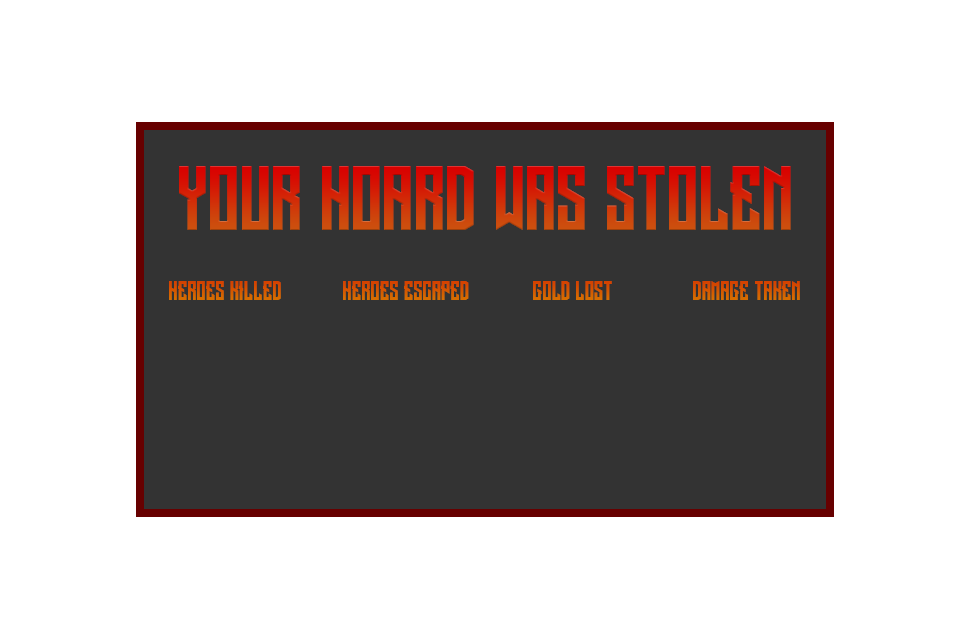
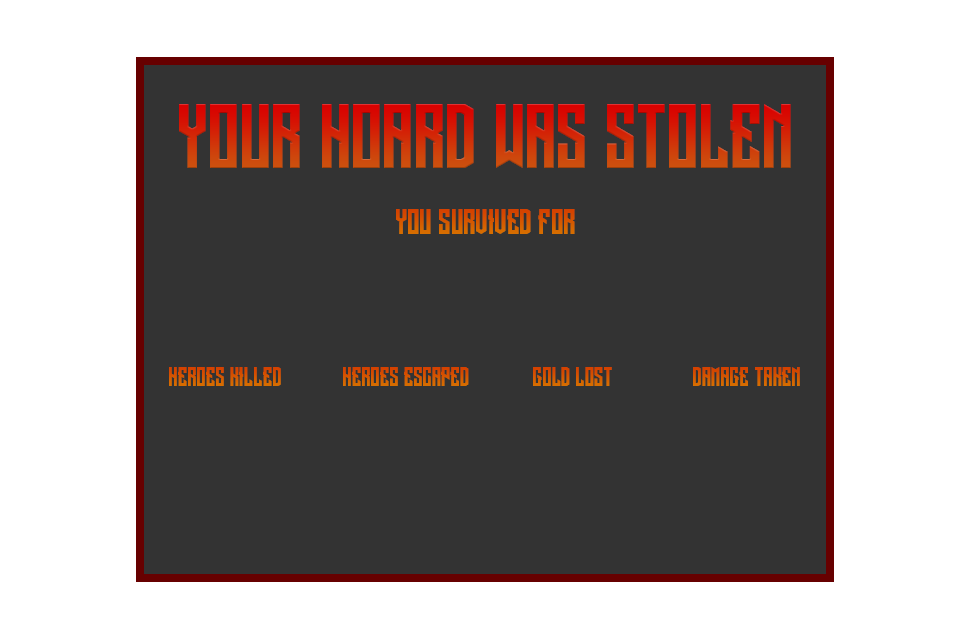
Add survival time

diff --git a/game/game.js b/game/game.js
@@ -109,6 +109,7 @@ var Map = (function (_super) {
         _super.call(this, engine);
         this._damageEffectTimeLeft = 0;
         this._takingDamage = false;
+        this._survivalTimer = 0;
         this._cameraVel = new ex.Vector(0, 0);
         // exported from Tiled JSON
         this._walls = [179, 179, 179, 179, 179, 179, 179, 179, 179, 186, 181, 181, 181, 181, 181, 181, 181, 181, 181, 181, 181, 181, 181, 181, 181, 181, 181, 181, 181, 181, 187, 179, 179, 179, 179, 179, 179, 179, 179, 179, 179, 179, 179, 179, 179, 179, 179, 179, 186, 189, 0, 0, 0, 0, 0, 0, 0, 0, 0, 0, 0, 0, 0, 0, 0, 0, 0, 0, 0, 0, 188, 187, 179, 179, 179, 179, 179, 179, 179, 179, 179, 179, 179, 179, 179, 179, 179, 186, 189, 0, 0, 0, 0, 0, 0, 0, 0, 0, 0, 0, 0, 0, 0, 0, 0, 0, 0, 0, 0, 0, 0, 188, 187, 179, 179, 179, 179, 292, 293, 293, 179, 179, 179, 179, 179, 179, 186, 189, 0, 0, 0, 0, 0, 0, 0, 0, 0, 0, 0, 0, 0, 0, 0, 0, 0, 0, 0, 0, 0, 0, 0, 0, 188, 187, 179, 179, 179, 179, 179, 179, 179, 179, 509, 179, 179, 186, 189, 0, 0, 0, 0, 0, 0, 0, 0, 0, 0, 0, 0, 0, 0, 0, 0, 0, 0, 0, 0, 0, 0, 0, 0, 0, 0, 188, 187, 179, 179, 179, 179, 179, 179, 179, 179, 179, 186, 189, 0, 0, 0, 0, 0, 0, 0, 0, 0, 0, 0, 0, 0, 0, 0, 0, 0, 0, 0, 0, 0, 0, 0, 0, 0, 0, 0, 0, 188, 187, 179, 179, 179, 179, 179, 179, 509, 186, 189, 0, 0, 0, 0, 0, 0, 0, 0, 0, 0, 0, 0, 0, 0, 0, 0, 0, 0, 0, 0, 0, 0, 0, 0, 0, 0, 0, 0, 0, 0, 188, 187, 291, 179, 179, 179, 179, 186, 189, 0, 0, 0, 0, 0, 0, 0, 0, 0, 0, 0, 0, 0, 0, 0, 0, 0, 0, 0, 0, 0, 0, 0, 0, 0, 0, 0, 0, 0, 0, 0, 0, 188, 187, 179, 179, 179, 186, 189, 0, 0, 0, 0, 0, 0, 0, 0, 0, 0, 0, 0, 0, 0, 0, 0, 0, 0, 0, 0, 0, 0, 0, 0, 0, 0, 0, 0, 0, 0, 0, 0, 0, 0, 188, 187, 291, 186, 189, 0, 0, 0, 0, 0, 0, 0, 0, 0, 0, 0, 0, 0, 0, 0, 0, 0, 0, 0, 0, 0, 0, 0, 0, 0, 0, 0, 0, 0, 0, 0, 0, 0, 0, 0, 0, 188, 187, 184, 0, 0, 0, 0, 0, 0, 0, 0, 0, 0, 0, 0, 0, 0, 0, 0, 0, 0, 0, 0, 0, 0, 0, 0, 0, 0, 0, 0, 0, 0, 0, 0, 0, 0, 0, 0, 0, 0, 184, 184, 0, 0, 0, 0, 0, 0, 0, 0, 0, 0, 0, 0, 0, 0, 0, 0, 0, 0, 0, 0, 0, 0, 0, 0, 0, 0, 0, 0, 0, 0, 0, 0, 0, 0, 0, 0, 0, 0, 184, 184, 0, 0, 0, 0, 0, 0, 0, 0, 0, 0, 0, 0, 0, 0, 0, 0, 0, 0, 0, 0, 0, 0, 0, 0, 0, 0, 0, 0, 0, 0, 0, 0, 0, 0, 0, 0, 0, 0, 184, 184, 0, 0, 0, 0, 0, 0, 0, 0, 0, 0, 0, 0, 0, 0, 0, 0, 0, 0, 0, 0, 0, 0, 0, 0, 0, 0, 0, 0, 0, 0, 0, 0, 0, 0, 0, 0, 0, 0, 184, 184, 0, 0, 0, 0, 0, 0, 0, 0, 0, 0, 0, 0, 0, 0, 0, 0, 0, 0, 0, 0, 0, 0, 0, 0, 0, 0, 0, 0, 0, 0, 0, 0, 0, 0, 0, 0, 0, 0, 184, 184, 0, 0, 0, 0, 0, 0, 0, 0, 0, 0, 0, 0, 0, 0, 0, 0, 0, 0, 0, 0, 0, 0, 0, 0, 0, 0, 0, 0, 0, 0, 0, 0, 0, 0, 0, 0, 0, 0, 184, 184, 0, 0, 0, 0, 0, 0, 0, 0, 0, 0, 0, 0, 0, 0, 0, 0, 0, 0, 0, 0, 0, 0, 0, 0, 0, 0, 0, 0, 0, 0, 0, 0, 0, 0, 0, 0, 0, 0, 184, 185, 0, 0, 0, 0, 0, 0, 0, 0, 0, 0, 0, 0, 0, 0, 0, 0, 0, 0, 0, 0, 0, 0, 0, 0, 0, 0, 0, 0, 0, 0, 0, 0, 0, 0, 0, 0, 0, 0, 185, 739, 0, 0, 0, 0, 0, 0, 0, 0, 0, 0, 0, 0, 0, 0, 0, 0, 0, 0, 0, 0, 0, 0, 0, 0, 0, 0, 0, 0, 0, 0, 0, 0, 0, 0, 0, 0, 0, 0, 1131, 0, 0, 0, 0, 0, 0, 0, 0, 0, 0, 0, 0, 0, 0, 0, 0, 0, 0, 0, 0, 0, 0, 0, 0, 0, 0, 0, 0, 0, 0, 0, 0, 0, 0, 0, 0, 0, 0, 0, 0, 739, 0, 0, 0, 0, 0, 0, 0, 0, 0, 0, 0, 0, 0, 0, 0, 0, 0, 0, 0, 0, 0, 0, 0, 0, 0, 0, 0, 0, 0, 0, 0, 0, 0, 0, 0, 0, 0, 0, 1131, 183, 0, 0, 0, 0, 0, 0, 0, 0, 0, 0, 0, 0, 0, 0, 0, 0, 0, 0, 0, 0, 0, 0, 0, 0, 0, 0, 0, 0, 0, 0, 0, 0, 0, 0, 0, 0, 0, 0, 183, 184, 0, 0, 0, 0, 0, 0, 0, 0, 0, 0, 0, 0, 0, 0, 0, 0, 0, 0, 0, 0, 0, 0, 0, 0, 0, 0, 0, 0, 0, 0, 0, 0, 0, 0, 0, 0, 0, 0, 184, 184, 0, 0, 0, 0, 0, 0, 0, 0, 0, 0, 0, 0, 0, 0, 0, 0, 0, 0, 0, 0, 0, 0, 0, 0, 0, 0, 0, 0, 0, 0, 0, 0, 0, 0, 0, 0, 0, 0, 184, 184, 0, 0, 0, 0, 0, 0, 0, 0, 0, 0, 0, 0, 0, 0, 0, 0, 0, 0, 0, 0, 0, 0, 0, 0, 0, 0, 0, 0, 0, 0, 0, 0, 0, 0, 0, 0, 0, 0, 184, 184, 0, 0, 0, 0, 0, 0, 0, 0, 0, 0, 0, 0, 0, 0, 0, 0, 0, 0, 0, 0, 0, 0, 0, 0, 0, 0, 0, 0, 0, 0, 0, 0, 0, 0, 0, 0, 0, 0, 184, 184, 0, 0, 0, 0, 0, 0, 0, 0, 0, 0, 0, 0, 0, 0, 0, 0, 0, 0, 0, 0, 0, 0, 0, 0, 0, 0, 0, 0, 0, 0, 0, 0, 0, 0, 0, 0, 0, 0, 184, 184, 0, 0, 0, 0, 0, 0, 0, 0, 0, 0, 0, 0, 0, 0, 0, 0, 0, 0, 0, 0, 0, 0, 0, 0, 0, 0, 0, 0, 0, 0, 0, 0, 0, 0, 0, 0, 0, 0, 184, 184, 0, 0, 0, 0, 0, 0, 0, 0, 0, 0, 0, 0, 0, 0, 0, 0, 0, 0, 0, 0, 0, 0, 0, 0, 0, 0, 0, 0, 0, 0, 0, 0, 0, 0, 0, 0, 0, 0, 184, 184, 0, 0, 0, 0, 0, 0, 0, 0, 0, 0, 0, 0, 0, 0, 0, 0, 0, 0, 0, 0, 0, 0, 0, 0, 0, 0, 0, 0, 0, 0, 0, 0, 0, 0, 0, 0, 0, 0, 184, 188, 187, 0, 0, 0, 0, 0, 0, 0, 0, 0, 0, 0, 0, 0, 0, 0, 0, 0, 0, 0, 0, 0, 0, 0, 0, 0, 0, 0, 0, 0, 0, 0, 0, 0, 0, 0, 0, 186, 189, 179, 188, 187, 0, 0, 0, 0, 0, 0, 0, 0, 0, 0, 0, 0, 0, 0, 0, 0, 0, 0, 0, 0, 0, 0, 0, 0, 0, 0, 0, 0, 0, 0, 0, 0, 0, 0, 186, 189, 179, 179, 179, 188, 187, 0, 0, 0, 0, 0, 0, 0, 0, 0, 0, 0, 0, 0, 0, 0, 0, 0, 0, 0, 0, 0, 0, 0, 0, 0, 0, 0, 0, 0, 0, 0, 0, 186, 189, 179, 291, 179, 179, 179, 188, 187, 0, 0, 0, 0, 0, 0, 0, 0, 0, 0, 0, 0, 0, 0, 0, 0, 0, 0, 0, 0, 0, 0, 0, 0, 0, 0, 0, 0, 0, 0, 186, 189, 179, 179, 179, 179, 179, 179, 179, 188, 187, 0, 0, 0, 0, 0, 0, 0, 0, 0, 0, 0, 0, 0, 0, 0, 0, 0, 0, 0, 0, 0, 0, 0, 0, 0, 0, 0, 0, 186, 189, 179, 179, 179, 179, 179, 509, 179, 179, 179, 188, 187, 0, 0, 0, 0, 0, 0, 0, 0, 0, 0, 0, 0, 0, 0, 0, 0, 0, 0, 0, 0, 0, 0, 0, 0, 0, 0, 186, 189, 179, 291, 179, 179, 179, 179, 179, 179, 179, 179, 179, 188, 187, 0, 0, 0, 0, 0, 0, 0, 0, 0, 0, 0, 0, 0, 0, 0, 0, 0, 0, 0, 0, 0, 0, 0, 0, 186, 189, 179, 179, 179, 179, 179, 295, 179, 179, 179, 179, 179, 179, 179, 188, 187, 0, 0, 0, 0, 0, 0, 0, 0, 0, 0, 0, 0, 0, 0, 0, 0, 0, 0, 0, 0, 0, 0, 186, 189, 179, 179, 179, 179, 179, 179, 296, 179, 179, 179, 179, 179, 179, 179, 179, 188, 187, 0, 0, 0, 0, 0, 0, 0, 0, 0, 0, 0, 0, 0, 0, 0, 0, 0, 0, 0, 0, 186, 189, 179, 179, 179, 179, 179, 179, 179, 300, 179, 179, 179, 179, 298, 299, 179, 179, 179, 188, 181, 181, 181, 181, 181, 181, 181, 181, 181, 181, 181, 181, 181, 181, 181, 181, 181, 181, 181, 181, 189, 179, 179, 179, 179, 179, 179, 179, 179, 179];
@@ -194,6 +195,7 @@ var Map = (function (_super) {
         // start sounds
         SoundManager.start();
         game.canvas.className = "playing";
+        this._survivalTimer = 0;
     };
     Map.prototype.onDeactivate = function () {
         SoundManager.stop();
@@ -245,8 +247,12 @@ var Map = (function (_super) {
     Map.prototype.getCellPos = function (x, y) {
         return new ex.Point(Map.CellSize * x, Map.CellSize * y);
     };
+    Map.prototype.getSurvivalTime = function () {
+        return this._survivalTimer;
+    };
     Map.prototype.update = function (engine, delta) {
         _super.prototype.update.call(this, engine, delta);
+        this._survivalTimer += delta;
         if (this._takingDamage) {
             this._damageEffectTimeLeft -= delta;
             if (this._damageEffectTimeLeft <= 0) {
@@ -1327,23 +1333,28 @@ var GameOver = (function (_super) {
         this._type.addDrawing("slain", Resources.TextureGameOverSlain.asSprite());
         this.add(this._type);
         // stats
-        this._labelHeroesKilled = new ex.Label(null, 223, 340, "30px Arial");
+        var statY = 420;
+        this._labelSurvivalTime = new ex.Label(null, game.getWidth() / 2, 300, "bold 60px Arial");
+        this._labelSurvivalTime.textAlign = ex.TextAlign.Center;
+        this._labelHeroesKilled = new ex.Label(null, 223, statY, "30px Arial");
         this._labelHeroesKilled.textAlign = ex.TextAlign.Center;
-        this._labelHeroesEscaped = new ex.Label(null, 408, 340, "30px Arial");
+        this._labelHeroesEscaped = new ex.Label(null, 408, statY, "30px Arial");
         this._labelHeroesEscaped.textAlign = ex.TextAlign.Center;
-        this._labelGoldLost = new ex.Label(null, 575, 340, "30px Arial");
+        this._labelGoldLost = new ex.Label(null, 575, statY, "30px Arial");
         this._labelGoldLost.textAlign = ex.TextAlign.Center;
-        this._labelDamageTaken = new ex.Label(null, 748, 340, "30px Arial");
+        this._labelDamageTaken = new ex.Label(null, 748, statY, "30px Arial");
         this._labelDamageTaken.textAlign = ex.TextAlign.Center;
+        this._labelSurvivalTime.color = ex.Color.fromHex("#e7a800");
         this._labelHeroesKilled.color = ex.Color.White;
         this._labelHeroesEscaped.color = ex.Color.White;
         this._labelGoldLost.color = ex.Color.White;
         this._labelDamageTaken.color = ex.Color.White;
+        this.add(this._labelSurvivalTime);
         this.add(this._labelHeroesKilled);
         this.add(this._labelHeroesEscaped);
         this.add(this._labelGoldLost);
         this.add(this._labelDamageTaken);
-        var retryButton = new ex.Actor(game.width / 2, 423, 252, 56);
+        var retryButton = new ex.Actor(game.width / 2, 500, 252, 56);
         retryButton.addDrawing(Resources.TextureGameOverRetry);
         this.add(retryButton);
         retryButton.on('pointerdown', function (e) {
@@ -1383,7 +1394,10 @@ var GameOver = (function (_super) {
         this._labelHeroesEscaped.text = Stats.numHeroesEscaped.toString() + ' (' + Math.floor(100 * (Stats.numHeroesEscaped / HeroSpawner.getSpawnCount())).toString() + '%)';
         this._labelGoldLost.text = Math.floor(100 * (Stats.goldLost / map.getHoardAmount())).toString() + '%';
         this._labelDamageTaken.text = Math.floor(100 * (Stats.damageTaken / Config.MonsterHealth)).toString() + '%';
-        // center labels
+        var survival = map.getSurvivalTime(); // in ms
+        var mins = Math.floor(survival / 1000 / 60);
+        var secs = Math.floor((survival / 1000) - (60 * mins));
+        this._labelSurvivalTime.text = mins.toString() + "m" + secs.toString() + "s";
     };
     GameOver.prototype.setType = function (type) {
         this._type.setDrawing(type === GameOverType.Hoard ? "hoard" : "slain");

diff --git a/game/gameover.ts b/game/gameover.ts
@@ -9,6 +9,7 @@ class GameOver extends ex.Scene {
    private _labelHeroesEscaped: ex.Label;
    private _labelGoldLost: ex.Label;
    private _labelDamageTaken: ex.Label;
+   private _labelSurvivalTime: ex.Label;
    
    public onInitialize(engine: ex.Engine) {
       game.backgroundColor = ex.Color.Black;
@@ -24,26 +25,31 @@ class GameOver extends ex.Scene {
       this.add(this._type);
       
       // stats
-      this._labelHeroesKilled = new ex.Label(null, 223, 340, "30px Arial");
+      var statY = 420;
+      this._labelSurvivalTime = new ex.Label(null, game.getWidth() / 2, 300, "bold 60px Arial");
+      this._labelSurvivalTime.textAlign = ex.TextAlign.Center;
+      this._labelHeroesKilled = new ex.Label(null, 223, statY, "30px Arial");
       this._labelHeroesKilled.textAlign = ex.TextAlign.Center;
-      this._labelHeroesEscaped = new ex.Label(null, 408, 340, "30px Arial");
+      this._labelHeroesEscaped = new ex.Label(null, 408, statY, "30px Arial");
       this._labelHeroesEscaped.textAlign = ex.TextAlign.Center;
-      this._labelGoldLost = new ex.Label(null, 575, 340, "30px Arial");
+      this._labelGoldLost = new ex.Label(null, 575, statY, "30px Arial");
       this._labelGoldLost.textAlign = ex.TextAlign.Center;
-      this._labelDamageTaken = new ex.Label(null, 748, 340, "30px Arial");
+      this._labelDamageTaken = new ex.Label(null, 748, statY, "30px Arial");
       this._labelDamageTaken.textAlign = ex.TextAlign.Center;
       
+      this._labelSurvivalTime.color = ex.Color.fromHex("#e7a800");
       this._labelHeroesKilled.color = ex.Color.White;
       this._labelHeroesEscaped.color  = ex.Color.White;
       this._labelGoldLost.color  = ex.Color.White;
       this._labelDamageTaken.color  = ex.Color.White;
       
+      this.add(this._labelSurvivalTime);
       this.add(this._labelHeroesKilled);
       this.add(this._labelHeroesEscaped);
       this.add(this._labelGoldLost);
       this.add(this._labelDamageTaken);
       
-      var retryButton = new ex.Actor(game.width / 2, 423, 252, 56);
+      var retryButton = new ex.Actor(game.width / 2, 500, 252, 56);
       retryButton.addDrawing(Resources.TextureGameOverRetry);      
       this.add(retryButton);
 
@@ -96,8 +102,11 @@ class GameOver extends ex.Scene {
       this._labelHeroesEscaped.text = Stats.numHeroesEscaped.toString() + ' (' + Math.floor(100 * (Stats.numHeroesEscaped / HeroSpawner.getSpawnCount())).toString() + '%)';
       this._labelGoldLost.text = Math.floor(100 * (Stats.goldLost / map.getHoardAmount())).toString() + '%';
       this._labelDamageTaken.text = Math.floor(100 * (Stats.damageTaken / Config.MonsterHealth)).toString() + '%';
-      
-      // center labels
+      var survival = map.getSurvivalTime(); // in ms
+      var mins = Math.floor(survival / 1000 / 60);
+      var secs = Math.floor((survival / 1000) - (60 * mins));
+            
+      this._labelSurvivalTime.text = mins.toString() + "m" + secs.toString() + "s";
    }
    
    public setType(type: GameOverType): void {

diff --git a/game/map.ts b/game/map.ts
@@ -12,6 +12,7 @@ class Map extends ex.Scene {
    private _vg: ex.UIActor;
    private _damageEffectTimeLeft: number = 0;
    private _takingDamage: boolean = false;
+   private _survivalTimer = 0;
    
    constructor(engine: ex.Engine) {
       super(engine);
@@ -120,6 +121,8 @@ class Map extends ex.Scene {
       SoundManager.start();
       
       game.canvas.className = "playing";
+      
+      this._survivalTimer = 0;
    }
    
    public onDeactivate() {
@@ -186,10 +189,16 @@ class Map extends ex.Scene {
       return new ex.Point(Map.CellSize * x, Map.CellSize * y);
    }
    
+   public getSurvivalTime() {
+      return this._survivalTimer;
+   }
+   
    private _cameraVel = new ex.Vector(0, 0);
    
    public update(engine: ex.Engine, delta: number) {
       super.update(engine, delta);
+      
+      this._survivalTimer += delta;
       
       if(this._takingDamage){
          this._damageEffectTimeLeft -= delta;
